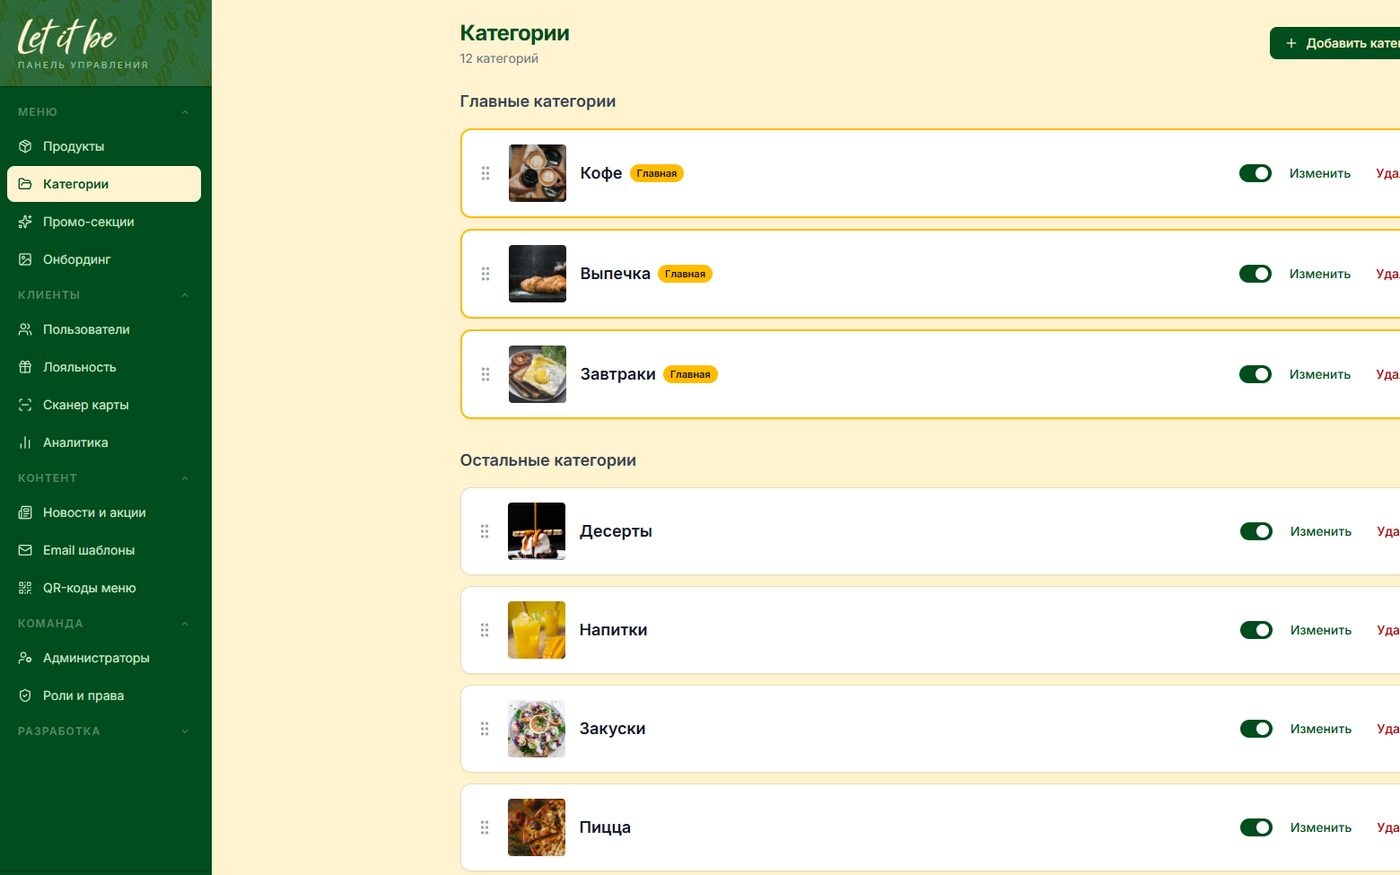
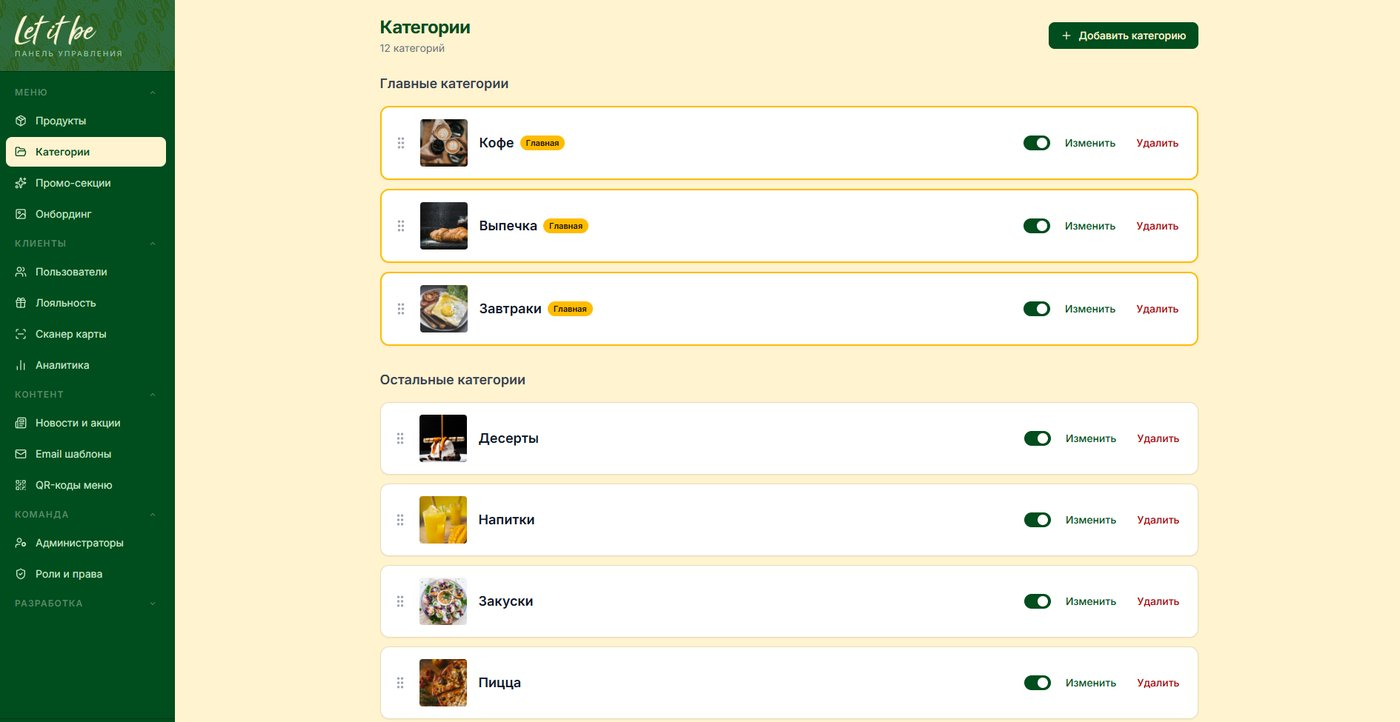
Fix Play.pavaga.gg name, reword Let it be description, show full uncropped screenshots, prevent native image drag from hijacking carousel scroll

diff --git a/index.html b/index.html
@@ -199,29 +199,29 @@
     <div id="work-track" class="work-track" style="display:flex;gap:32px;overflow-x:auto;scroll-snap-type:x mandatory;padding:24px 24px;-webkit-overflow-scrolling:touch;width:100vw;margin-left:calc(-50vw + 50%);cursor:grab;user-select:none;-webkit-mask-image:linear-gradient(to right, transparent 0, #000 80px, #000 calc(100% - 80px), transparent 100%);mask-image:linear-gradient(to right, transparent 0, #000 80px, #000 calc(100% - 80px), transparent 100%);">
       <div class="work-card" style="flex:0 0 auto;width:min(720px,84vw);scroll-snap-align:center;background:#ffffff;padding:32px;overflow:hidden;"><div style="{{ workStyle }};transition:opacity .7s cubic-bezier(.16,1,.3,1),transform .7s cubic-bezier(.16,1,.3,1);display:flex;flex-direction:column;gap:14px;">
         <div class="work-card-media" style="width:100%;aspect-ratio:16/10;background:#f2f2f5;border:1px solid rgba(10,10,10,0.15);overflow:hidden;">
-          <img src="assets/work-pavaga.jpg" alt="Pavaga.gg — киберспортивная платформа" style="width:100%;height:100%;object-fit:cover;display:block;" loading="lazy">
+          <img src="assets/work-pavaga.jpg" alt="Play.pavaga.gg — киберспортивная платформа" draggable="false" style="width:100%;height:100%;object-fit:contain;display:block;" loading="lazy">
         </div>
         <div>
           <span style="font-size:14px;font-weight:700;color:rgba(10,10,10,0.4);">01</span>
-          <h3 style="font-size:18px;font-weight:700;margin:4px 0 4px;">Pavaga.gg</h3>
+          <h3 style="font-size:18px;font-weight:700;margin:4px 0 4px;">Play.pavaga.gg</h3>
           <p style="font-size:14px;line-height:1.5;color:rgba(10,10,10,0.6);margin:0;">Киберспортивная платформа: турниры, команды, рейтинги игроков.</p>
         </div>
         </div>
       </div>
       <div class="work-card" style="flex:0 0 auto;width:min(720px,84vw);scroll-snap-align:center;background:#ffffff;padding:32px;overflow:hidden;"><div style="{{ workStyle }};transition:opacity .7s cubic-bezier(.16,1,.3,1) 80ms,transform .7s cubic-bezier(.16,1,.3,1) 80ms;display:flex;flex-direction:column;gap:14px;">
         <div class="work-card-media" style="width:100%;aspect-ratio:16/10;background:#f2f2f5;border:1px solid rgba(10,10,10,0.15);overflow:hidden;">
-          <img src="assets/work-letitbe.jpg" alt="Let it be — веб-админка мобильного приложения кофейни" style="width:100%;height:100%;object-fit:cover;display:block;" loading="lazy">
+          <img src="assets/work-letitbe.jpg" alt="Let it be — панель управления мобильным приложением кофейни" draggable="false" style="width:100%;height:100%;object-fit:contain;display:block;" loading="lazy">
         </div>
         <div>
           <span style="font-size:14px;font-weight:700;color:rgba(10,10,10,0.4);">02</span>
           <h3 style="font-size:18px;font-weight:700;margin:4px 0 4px;">Let it be</h3>
-          <p style="font-size:14px;line-height:1.5;color:rgba(10,10,10,0.6);margin:0;">Веб-админка мобильного приложения кофейни: меню, акции, программа лояльности.</p>
+          <p style="font-size:14px;line-height:1.5;color:rgba(10,10,10,0.6);margin:0;">Панель управления кофейней: меню, акции и лояльность.</p>
         </div>
         </div>
       </div>
       <div class="work-card" style="flex:0 0 auto;width:min(720px,84vw);scroll-snap-align:center;background:#ffffff;padding:32px;overflow:hidden;"><div style="{{ workStyle }};transition:opacity .7s cubic-bezier(.16,1,.3,1) 160ms,transform .7s cubic-bezier(.16,1,.3,1) 160ms;display:flex;flex-direction:column;gap:14px;">
         <div class="work-card-media" style="width:100%;aspect-ratio:16/10;background:#f2f2f5;border:1px solid rgba(10,10,10,0.15);overflow:hidden;">
-          <img src="assets/work-threshold.jpg" alt="Threshold — левел-арт для инди-игры" style="width:100%;height:100%;object-fit:cover;display:block;" loading="lazy">
+          <img src="assets/work-threshold.jpg" alt="Threshold — левел-арт для инди-игры" draggable="false" style="width:100%;height:100%;object-fit:contain;display:block;" loading="lazy">
         </div>
         <div>
           <span style="font-size:14px;font-weight:700;color:rgba(10,10,10,0.4);">03</span>